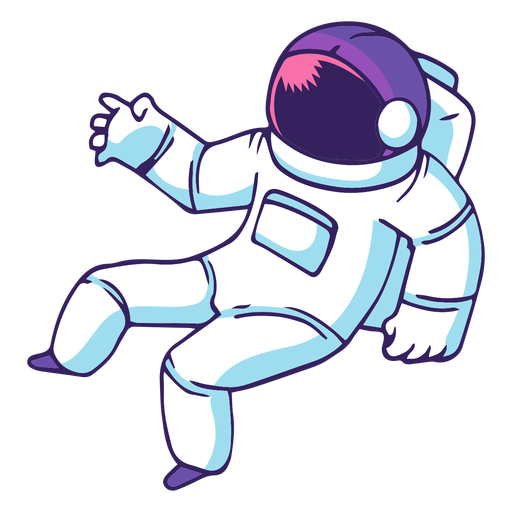
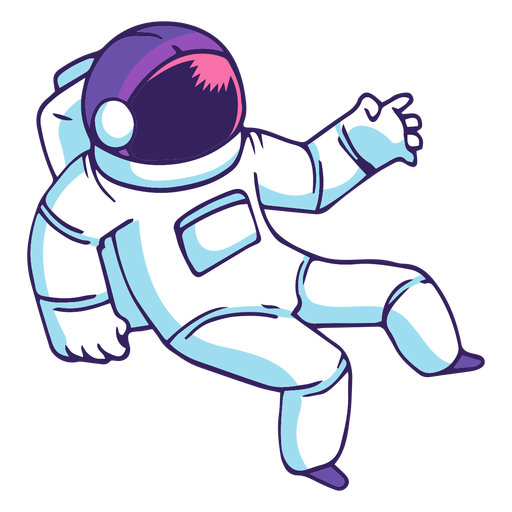
added images to background

diff --git a/index.html b/index.html
@@ -14,6 +14,12 @@
 </head>
 
 <body>
+    <div class="float-left">
+        <img src="assets/images/astronaut.png" id="ast-img" alt="Astronaut floating in outer space">
+    </div>
+    <div class="float-right">
+        <img src="assets/images/Untitled-1.png" id="rock-img" alt="Asteroid floating in outer space">
+    </div>
     <div class="container">
         <div class="row">
             <div class="col-xs-12 col-md-8 custom-panel">

diff --git a/assets/css/style.css b/assets/css/style.css
@@ -69,3 +69,26 @@ p, h3 {
 #counter {
     font-family: 'Audiowide', cursive;
 }
+
+.float-left {
+    position: absolute;
+    top: 100px;
+    left: 15px;
+
+}
+
+#ast-img {
+    width: 350px;
+    height: 350px;
+}
+.float-right {
+    position: absolute;
+    bottom: 50px;
+    right: 15px;
+
+}
+
+#rock-img {
+    width: 320px;
+    height: 320px;
+}
